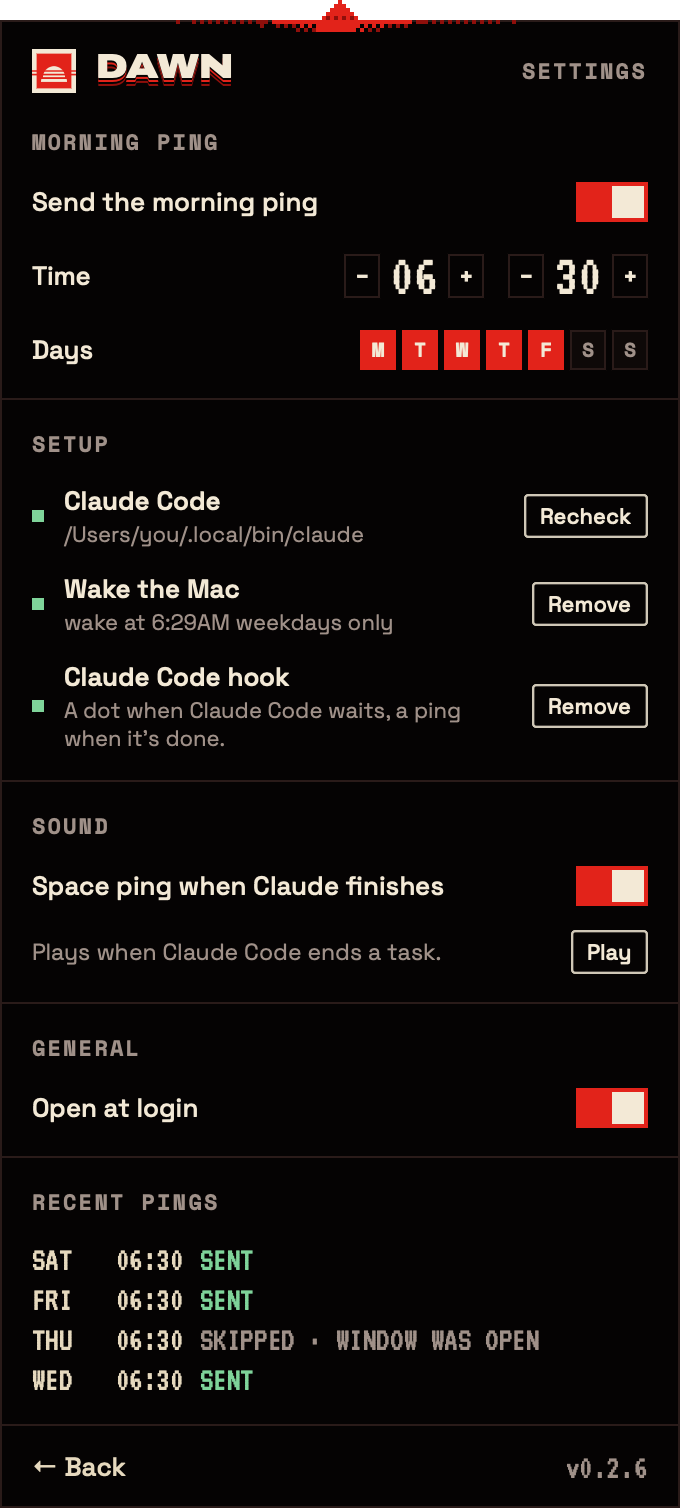
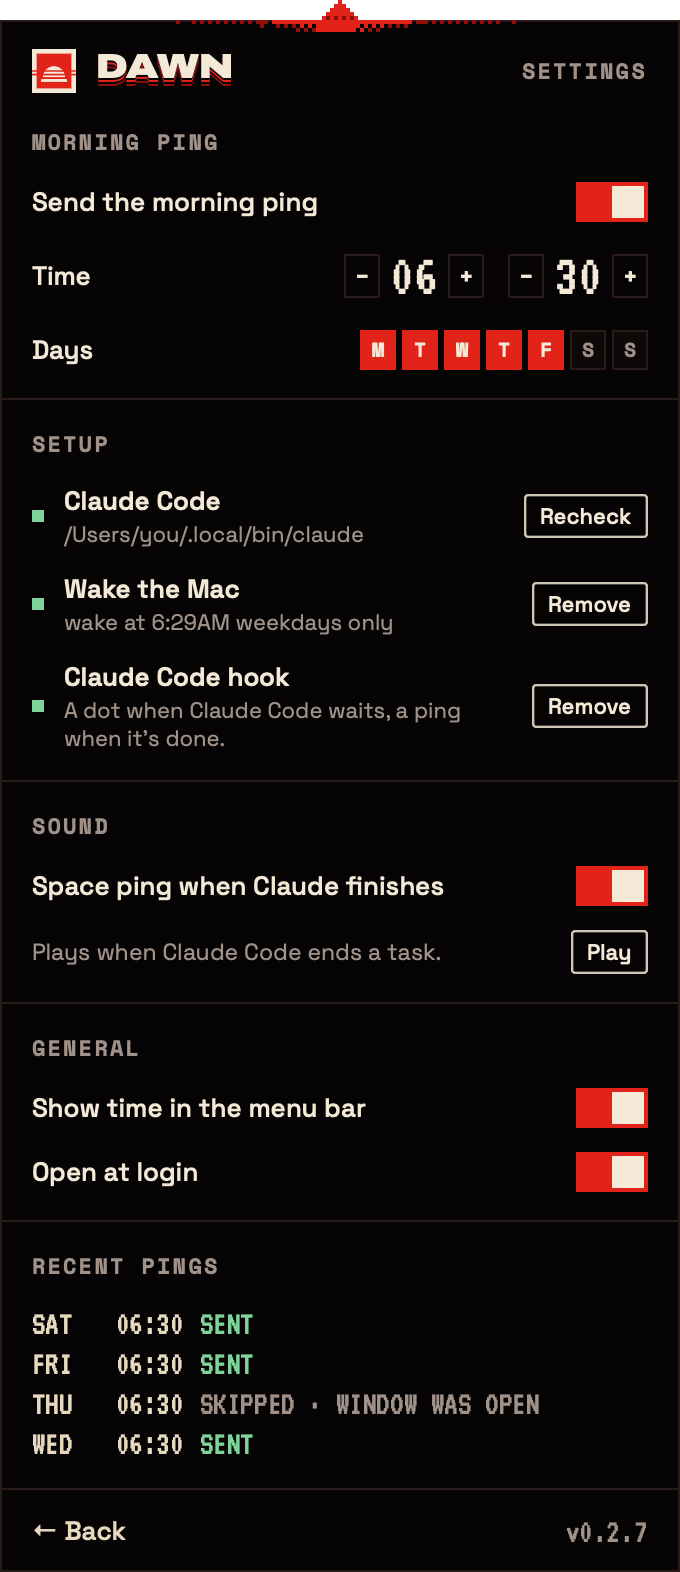
Dawn 0.2.7: setting to hide the time in the menu bar
Settings › General › Show time in the menu bar. Off leaves just the sun.

diff --git a/Sources/Dawn/DawnModel.swift b/Sources/Dawn/DawnModel.swift
@@ -18,11 +18,13 @@ struct Settings: Codable, Equatable {
     var weekdays: Set<Int> = [1, 2, 3, 4, 5, 6, 7] // Calendar weekday numbers, 1 = Sunday
     var model = "haiku"
     var doneSound = true
+    var showMenuBarTime = true
 
     init(enabled: Bool = false, hour: Int = 6, minute: Int = 30, weekdays: Set<Int> = [1, 2, 3, 4, 5, 6, 7],
-         model: String = "haiku", doneSound: Bool = true) {
+         model: String = "haiku", doneSound: Bool = true, showMenuBarTime: Bool = true) {
         self.enabled = enabled; self.hour = hour; self.minute = minute
         self.weekdays = weekdays; self.model = model; self.doneSound = doneSound
+        self.showMenuBarTime = showMenuBarTime
     }
 
     // Settings saved by an older version simply lack the newer keys; keep everything else.
@@ -35,6 +37,7 @@ struct Settings: Codable, Equatable {
         weekdays = try c.decodeIfPresent(Set<Int>.self, forKey: .weekdays) ?? d.weekdays
         model = try c.decodeIfPresent(String.self, forKey: .model) ?? d.model
         doneSound = try c.decodeIfPresent(Bool.self, forKey: .doneSound) ?? d.doneSound
+        showMenuBarTime = try c.decodeIfPresent(Bool.self, forKey: .showMenuBarTime) ?? d.showMenuBarTime
     }
 }
 
@@ -348,7 +351,7 @@ final class DawnModel: ObservableObject {
 
     /// The short text next to the menu bar icon: time left in the window.
     var menuBarText: String? {
-        guard let w = window else { return nil }
+        guard settings.showMenuBarTime, let w = window else { return nil }
         return Self.hm(w.interval.end.timeIntervalSince(now))
     }
 

diff --git a/Sources/Dawn/PanelView.swift b/Sources/Dawn/PanelView.swift
@@ -362,6 +362,7 @@ struct SettingsView: View {
             }
 
             section("General") {
+                row("Show time in the menu bar") { DawnSwitch(isOn: $model.settings.showMenuBarTime) }
                 row("Open at login") {
                     DawnSwitch(isOn: Binding(get: { model.loginItem }, set: { model.setLoginItem($0) }))
                 }

diff --git a/Sources/Dawn/DawnApp.swift b/Sources/Dawn/DawnApp.swift
@@ -2,7 +2,7 @@ import AppKit
 import SwiftUI
 
 enum DawnInfo {
-    static let version = "0.2.6"
+    static let version = "0.2.7"
 }
 
 final class AppDelegate: NSObject, NSApplicationDelegate {

diff --git a/README.md b/README.md
@@ -31,7 +31,7 @@ If you add the Claude Code hook (one click in Settings), the sun gets a ringed d
 
 <p align="center"><img src="docs/panel-asking.png" width="340" alt="The panel with a red banner: Claude Code is waiting, Claude needs your permission to use Bash."> &nbsp; <img src="docs/panel-settings.png" width="340" alt="Dawn's settings: morning ping time and days, setup checks for Claude Code, the scheduled wake and the hook, the space ping switch, open at login, and the last four pings."></p>
 
-Everything you set once lives behind **Settings** at the bottom of the panel: the morning ping time and days, the setup checks, the sound and open at login. The panel itself stays a clock.
+Everything you set once lives behind **Settings** at the bottom of the panel: the morning ping time and days, the setup checks, the sound, whether the time shows in the menu bar, and open at login. The panel itself stays a clock.
 
 ## Install
 
